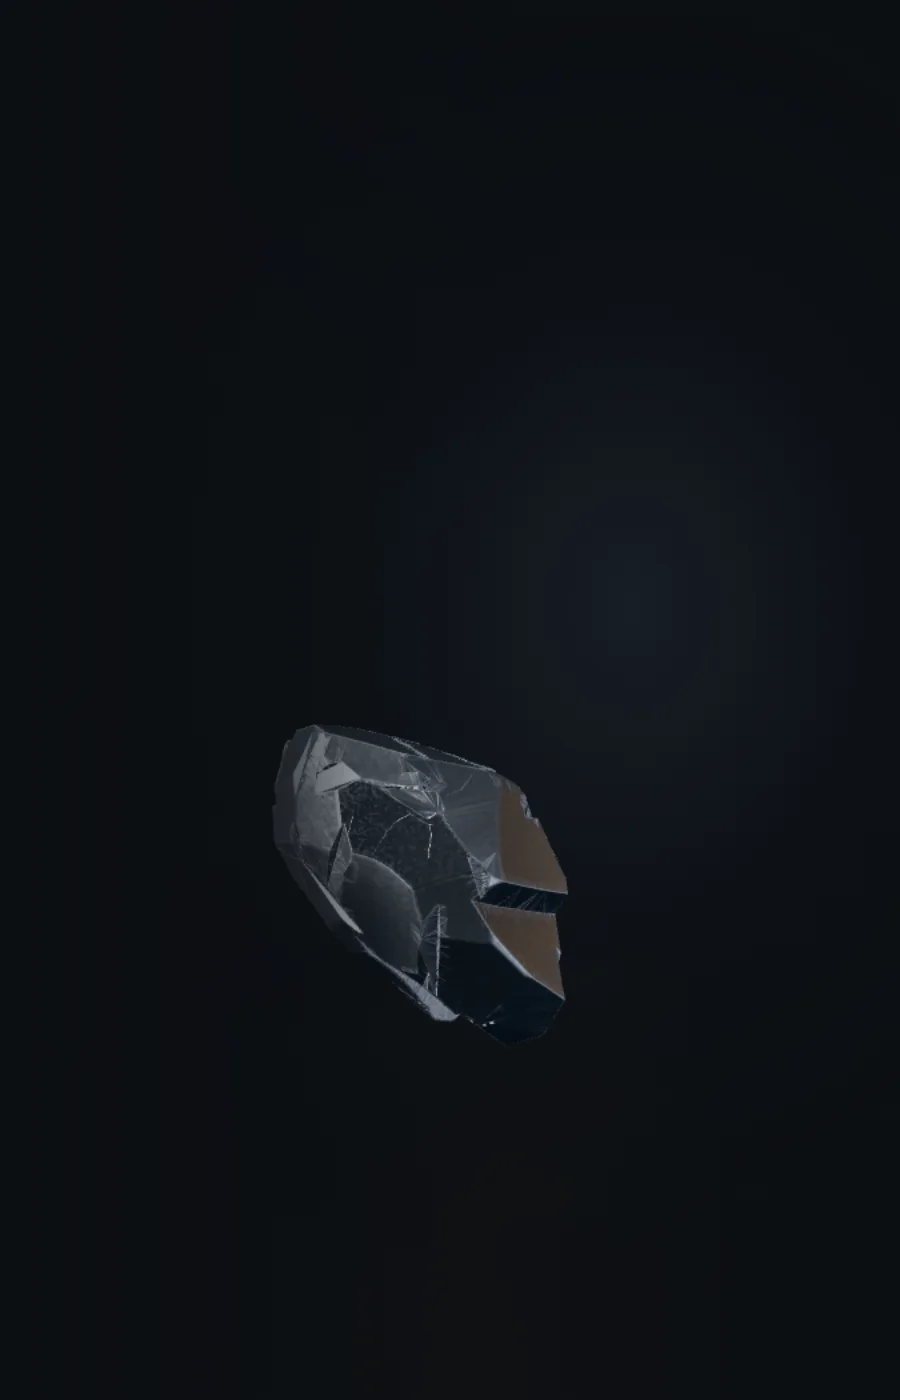
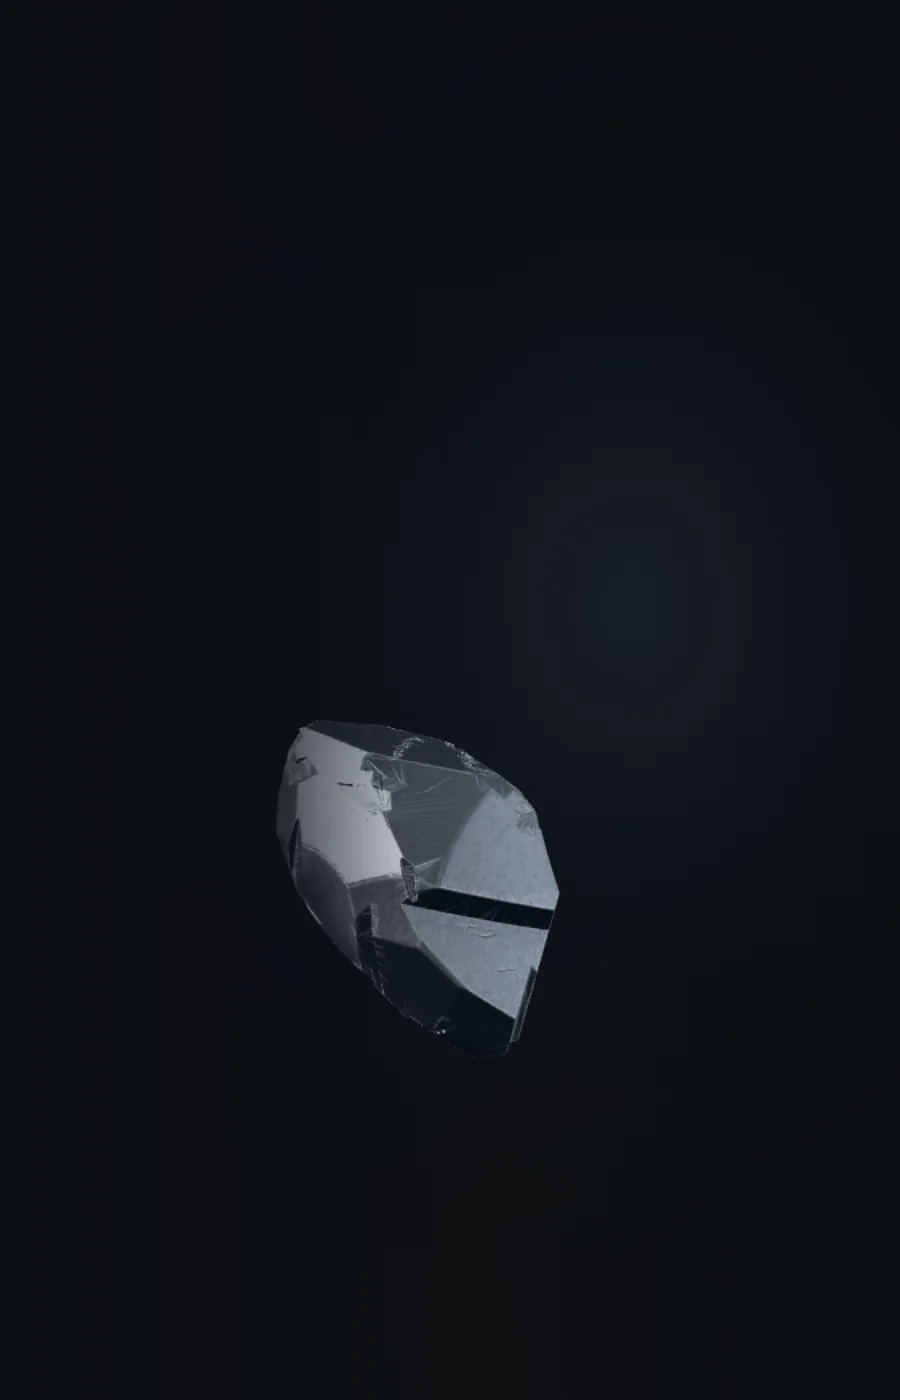
Chapter 06: rest the chunk at a quarter turn that reads like the hero
At the earlier turn the entry face's detail patch faced the camera at a small size and read as
grain; at .45 rad the facets are lit as in the hero. Posters recaptured.

Changed region(s): [[0.3111, 0.5221, 0.6533, 0.7371]]

diff --git a/src/scripts/scenes/finale-math.js b/src/scripts/scenes/finale-math.js
@@ -108,7 +108,7 @@ export function finaleState(u, framing, aspect) {
     glass: 1 - smoothstep(...FINALE.glass, u),
     device: 1 - smoothstep(...FINALE.dissolve, u),
     // The chunk turns with the scroll after the match (the capture was taken at rest, theta 0).
-    theta: .9 * smoothstep(FINALE.match, 1, u),
+    theta: .45 * smoothstep(FINALE.match, 1, u),
     copy: smoothstep(...FINALE.copy, u),
   };
 }
